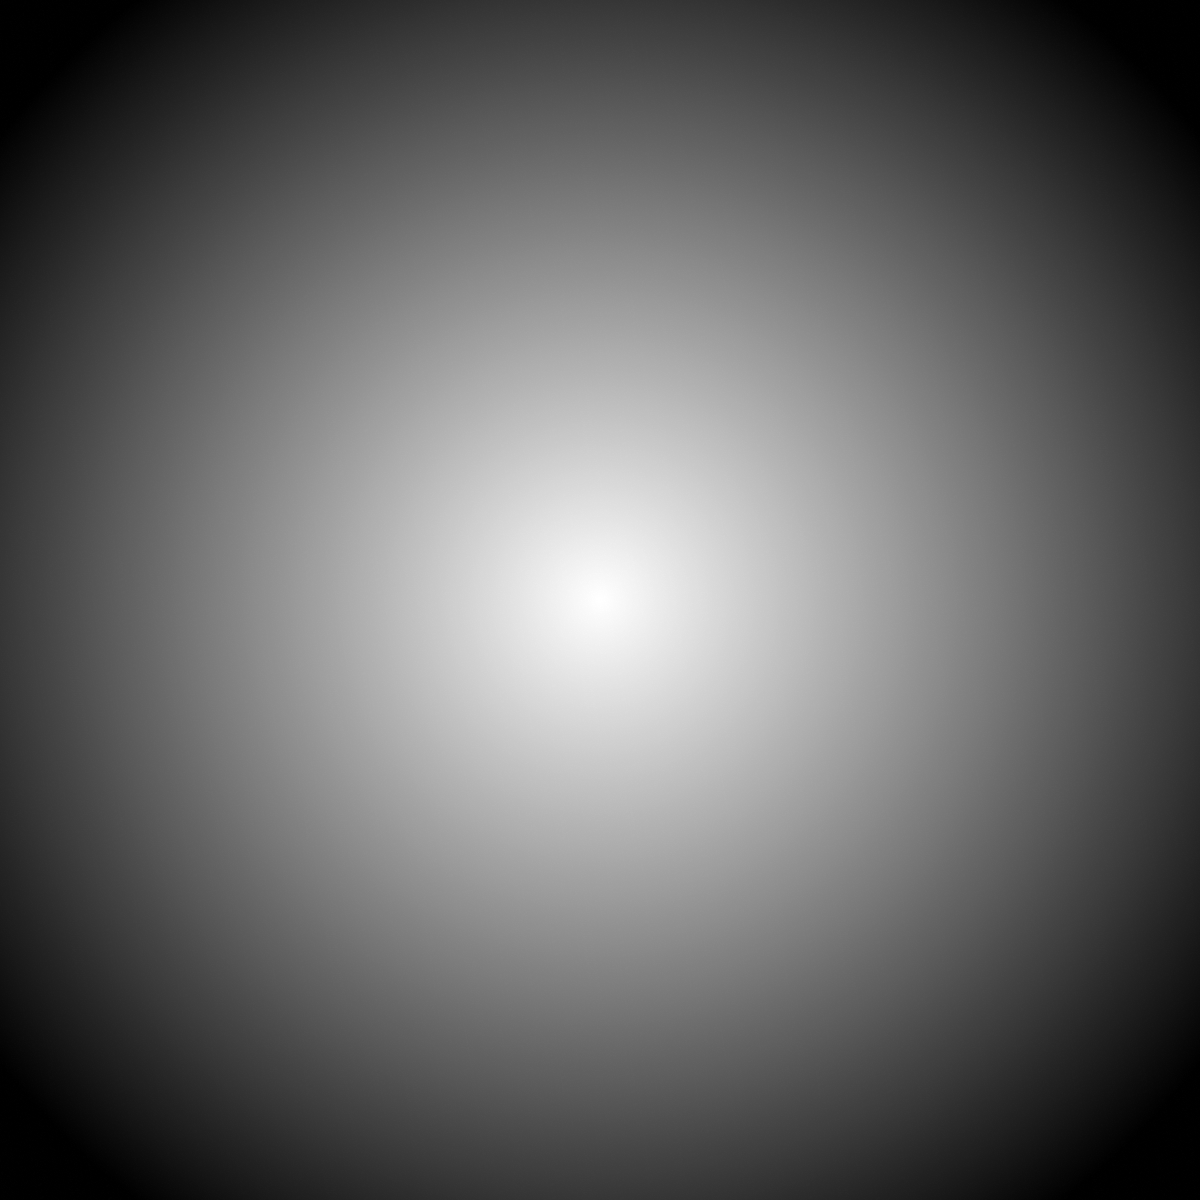
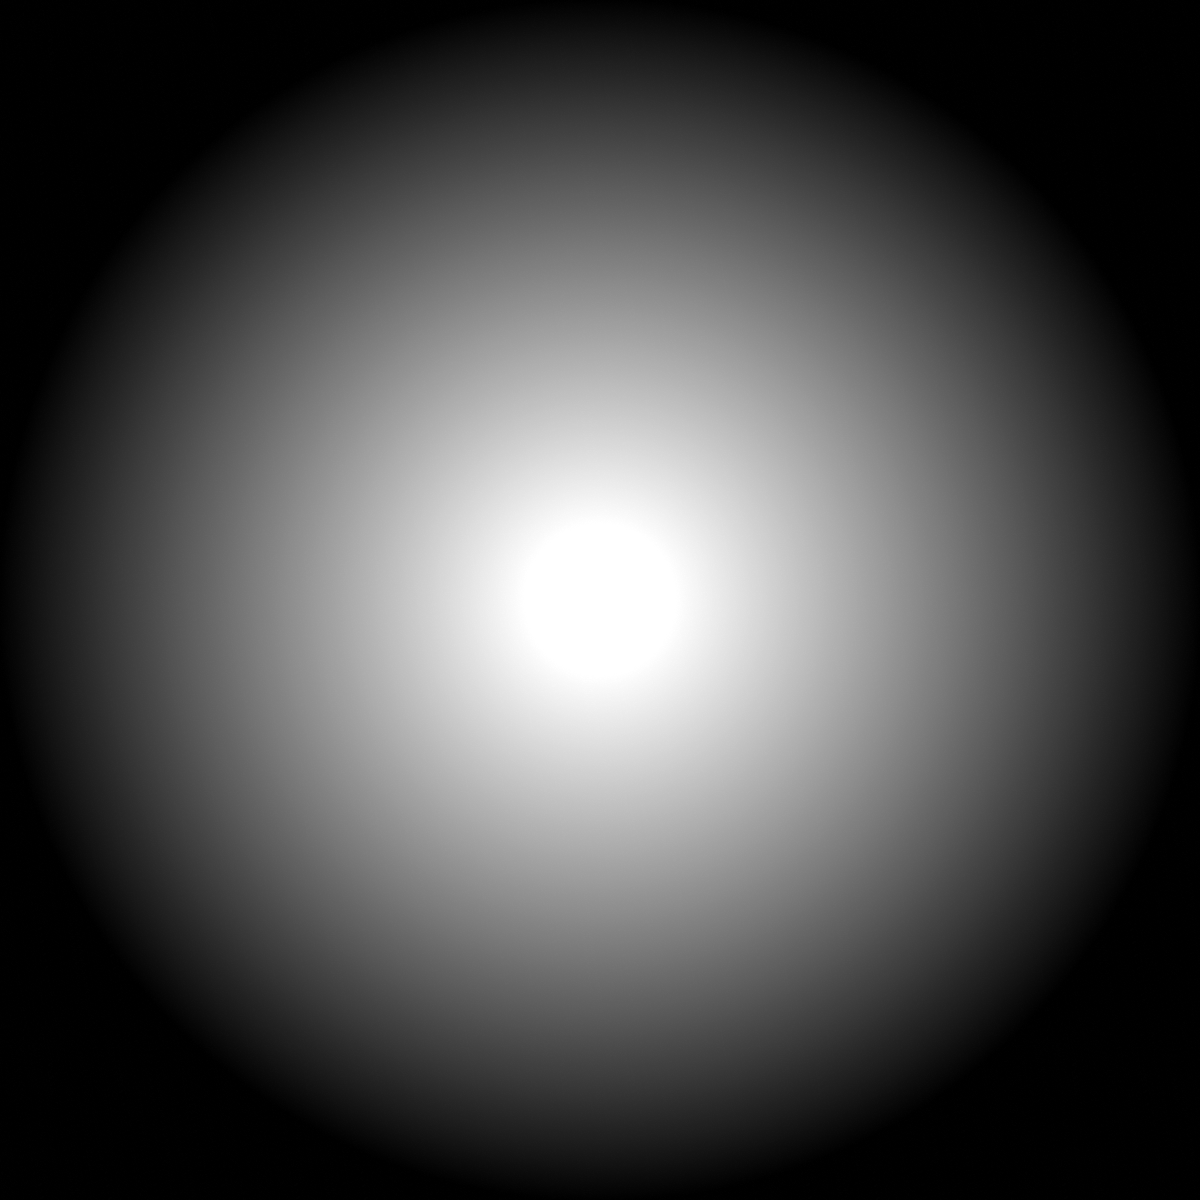
centers fade, adds potential easter egg

diff --git a/src/scenes/HudScene.js b/src/scenes/HudScene.js
@@ -126,9 +126,9 @@ export class HudScene extends Phaser.Scene {
   }
 
   addFade() {
-    this.fade = this.add.image(600, 600, 'fade');
+    this.fade = this.add.image(GAME.width/2, GAME.height/2, 'fade');
 
-    // this.fade.setDepth(9999999);
+    this.fade.setDepth(DEPTH.FADE);
   }
 
   addInventory(gameScene) {
